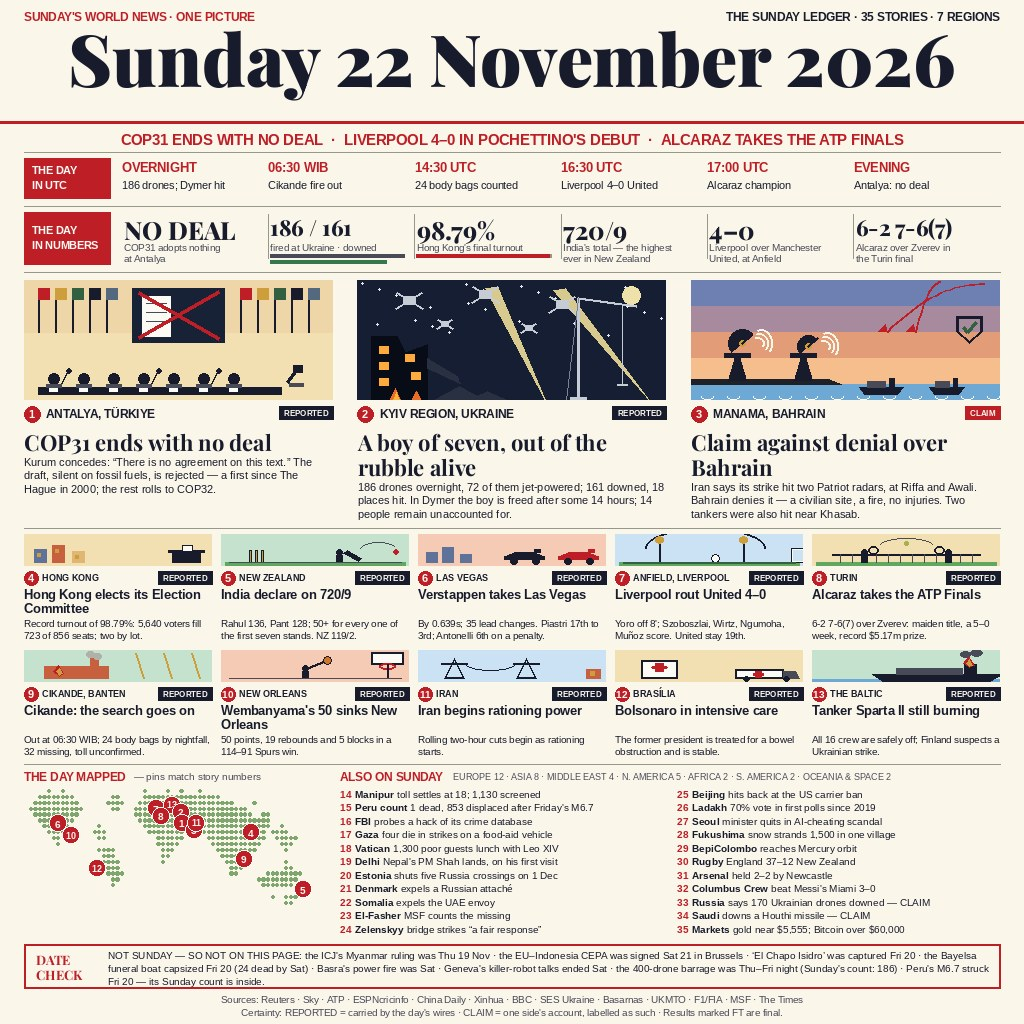
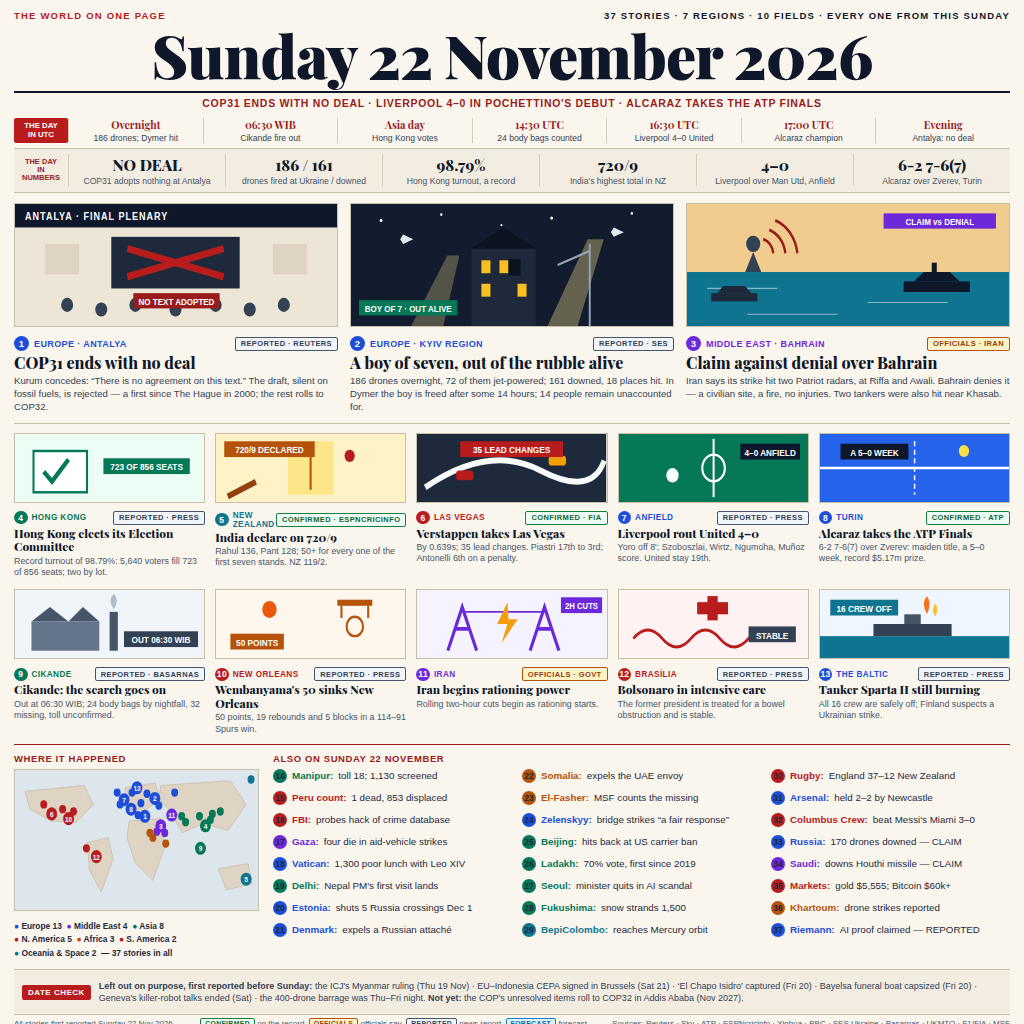
V8: THE WORLD ON ONE PAGE broadsheet rebuild (user-supplied design spec, adapted)
- New source: page.html (HTML/CSS + inline SVG), rasterised at 1024x1024
  to entry.png (281,627 bytes, sha256 c68ce99d); BUILD.md documents it.
- 37 stories: V7's 35 + Khartoum drones (36) and Riemann AI-proof claim
  (37) restored from the verified canon; region counts updated
  (Europe 13, Asia 8, N. America 5, Middle East 4, Africa 3,
  S. America 2, Oceania & Space 2).
- Design targets the dev judge's stated loss reasons: one clear
  composition instead of a wall of panels; every brief a single line
  with a numbered region dot and bold lead word (no wrapped microtext
  to misread); per-card epistemic badges with named sources
  (Reported/Officials/Confirmed); date-check bar kept.
- Spec adaptations: no Antarctica story exists in the verified canon,
  so the masthead says 7 REGIONS (not 7 continents); smallest type
  raised above the spec (briefs 9.8px, date-check 9px); date at 60px.
- main.ts unchanged in behaviour (copies entry.png); comment updated.
  Hand-in verified: two runs byte-identical.

diff --git a/page.html b/page.html
@@ -1,0 +1,360 @@
+<!DOCTYPE html>
+<html lang="en">
+<head>
+<meta charset="utf-8">
+<title>THE SUNDAY LEDGER — Sunday 22 November 2026</title>
+<style>
+  * { margin:0; padding:0; box-sizing:border-box; }
+  html,body { width:1024px; height:1024px; overflow:hidden; }
+  body {
+    background:#FAF6EE; color:#0F172A;
+    font-family:'Inter','Liberation Sans','DejaVu Sans',sans-serif;
+    padding:10px 14px 8px 14px;
+    display:flex; flex-direction:column;
+  }
+  .serif { font-family:'Playfair Display','Georgia','Liberation Serif','Times New Roman',serif; }
+  /* ---------- Layer 1: masthead ---------- */
+  .meta { display:flex; justify-content:space-between; align-items:baseline;
+    font-size:9.5px; font-weight:800; letter-spacing:1.2px; text-transform:uppercase; }
+  .meta .l { color:#B91C1C; }
+  .meta .r { color:#0F172A; }
+  .date { font-size:60px; font-weight:900; text-align:center; color:#0F172A;
+    letter-spacing:-0.8px; line-height:1.02; margin:3px 0 6px 0; }
+  .mast-rule { border-bottom:2px solid #0F172A; }
+  .strap { text-align:center; font-size:10.5px; font-weight:800; letter-spacing:0.7px;
+    color:#991B1B; text-transform:uppercase; padding:4px 0 5px 0; }
+  /* ---------- Layer 2: UTC strip ---------- */
+  .utc { display:flex; border-bottom:1px solid #C8BFA8; padding:4px 0 5px 0; }
+  .utc .lab { width:54px; flex:none; background:#B91C1C; color:#FFF; font-size:7.8px;
+    font-weight:800; text-align:center; padding:3px 4px; line-height:1.15; border-radius:2px;
+    display:flex; align-items:center; justify-content:center; }
+  .utc .cell { flex:1; text-align:center; border-left:1px solid #D4CBB8; padding:0 2px; }
+  .utc .t { font-size:10.5px; font-weight:700; color:#991B1B; }
+  .utc .e { font-size:8.6px; color:#334155; margin-top:1px; }
+  /* ---------- Layer 3: numbers strip ---------- */
+  .nums { display:flex; background:#F2ECE1; border-bottom:1px solid #C8BFA8; padding:5px 0 6px 0; }
+  .nums .lab { width:54px; flex:none; font-size:7.5px; font-weight:800; color:#991B1B;
+    line-height:1.12; display:flex; align-items:center; justify-content:center; text-align:center; }
+  .nums .cell { flex:1; text-align:center; border-left:1px solid #D4CBB8; padding:0 2px; }
+  .nums .f { font-size:15.5px; font-weight:800; color:#0F172A; }
+  .nums .c { font-size:8.6px; color:#475569; margin-top:1px; }
+  /* ---------- shared card bits ---------- */
+  .badge { font-size:7.5px; font-weight:800; text-transform:uppercase; letter-spacing:0.4px;
+    padding:1.5px 5px; border-radius:2px; white-space:nowrap; }
+  .b-conf { background:#ECFDF5; border:1px solid #15803D; color:#166534; }
+  .b-off  { background:#FEF3C7; border:1px solid #B45309; color:#92400E; }
+  .b-rep  { background:#F1F5F9; border:1px solid #475569; color:#334155; }
+  .b-for  { background:#E0F2FE; border:1px solid #0284C7; color:#0369A1; }
+  .dot { border-radius:50%; color:#FFF; font-weight:800; display:flex; flex:none;
+    align-items:center; justify-content:center; }
+  .eu { background:#1D4ED8; } .me { background:#6D28D9; } .as { background:#047857; }
+  .am { background:#B91C1C; } .af { background:#B45309; } .oc { background:#0E7490; }
+  .c-eu { color:#1D4ED8; } .c-me { color:#6D28D9; } .c-as { color:#047857; }
+  .c-am { color:#B91C1C; } .c-af { color:#B45309; } .c-oc { color:#0E7490; }
+  /* ---------- Layer 4: leads ---------- */
+  .leads { display:grid; grid-template-columns:repeat(3,1fr); gap:12px; padding:10px 0 9px 0; }
+  .lead .scene { width:100%; height:124px; border:1px solid #C8BFA8; background:#EDE6D6; }
+  .mrow { display:flex; justify-content:space-between; align-items:center; margin:5px 0 3px 0; }
+  .kick { display:flex; align-items:center; gap:5px; font-size:9px; font-weight:800; letter-spacing:0.4px; }
+  .kick .dot { width:15px; height:15px; font-size:9.5px; }
+  .lead h2 { font-size:16px; font-weight:800; line-height:1.12; color:#0F172A; }
+  .lead p { font-size:9.6px; line-height:1.34; color:#334155; margin-top:3px; }
+  /* ---------- Layer 5: tier-2 cards ---------- */
+  .tier2 { border-top:1px solid #C8BFA8; padding-top:9px;
+    display:grid; grid-template-columns:repeat(5,1fr); column-gap:10px; row-gap:11px; }
+  .card .scene { width:100%; height:70px; border:1px solid #C8BFA8; }
+  .card .mrow { margin:4px 0 2px 0; }
+  .card .kick { font-size:8.2px; gap:4px; }
+  .card .kick .dot { width:13.5px; height:13.5px; font-size:8.5px; }
+  .card h3 { font-size:11.8px; font-weight:800; line-height:1.14; color:#0F172A; }
+  .card p { font-size:8.9px; line-height:1.28; color:#475569; margin-top:2px; }
+  /* ---------- Layer 6: map + briefs ---------- */
+  .tier3 { border-top:1.5px solid #991B1B; padding-top:8px; margin-top:9px;
+    display:grid; grid-template-columns:245px 1fr; gap:14px; }
+  .t3h { font-size:9.5px; font-weight:800; color:#991B1B; letter-spacing:0.6px; margin-bottom:5px; }
+  .mapbox { width:245px; height:142px; background:#DDE5ED; border:1px solid #C8BFA8; }
+  .legend { font-size:8.4px; font-weight:700; color:#1E293B; line-height:1.6; margin-top:5px; }
+  .briefs { display:grid; grid-template-columns:repeat(3,1fr); column-gap:10px; row-gap:5px; }
+  .brief { display:flex; align-items:center; gap:5px; font-size:9.8px; line-height:1.2;
+    white-space:nowrap; overflow:hidden; }
+  .brief .dot { width:14px; height:14px; font-size:8.5px; }
+  .brief b { font-weight:800; }
+  .brief span { color:#1E293B; }
+  /* ---------- Layer 7: date check ---------- */
+  .dcheck { margin-top:9px; padding:10px 8px; background:#F2ECE1; border-top:1px solid #C8BFA8;
+    border-bottom:1px solid #C8BFA8; display:flex; align-items:center; gap:8px; }
+  .dcheck .tag { background:#B91C1C; color:#FFF; font-size:8px; font-weight:800; padding:3px 6px;
+    border-radius:2px; white-space:nowrap; letter-spacing:0.5px; }
+  .dcheck p { font-size:9px; line-height:1.34; color:#334155; }
+  /* ---------- Layer 8: footer ---------- */
+  .foot { display:flex; justify-content:space-between; align-items:center; padding-top:4px;
+    font-size:8px; color:#475569; margin-top:auto; }
+  .foot .mini { font-size:6.8px; padding:1px 4px; }
+</style>
+</head>
+<body>
+  <!-- LAYER 1 · MASTHEAD -->
+  <div class="meta">
+    <div class="l">The World on One Page</div>
+    <div class="r">37 Stories · 7 Regions · 10 Fields · Every One From This Sunday</div>
+  </div>
+  <div class="date serif">Sunday 22 November 2026</div>
+  <div class="mast-rule"></div>
+  <div class="strap">COP31 ends with no deal · Liverpool 4–0 in Pochettino's debut · Alcaraz takes the ATP Finals</div>
+
+  <!-- LAYER 2 · THE DAY IN UTC -->
+  <div class="utc">
+    <div class="lab">THE DAY<br>IN UTC</div>
+    <div class="cell"><div class="t serif">Overnight</div><div class="e">186 drones; Dymer hit</div></div>
+    <div class="cell"><div class="t serif">06:30 WIB</div><div class="e">Cikande fire out</div></div>
+    <div class="cell"><div class="t serif">Asia day</div><div class="e">Hong Kong votes</div></div>
+    <div class="cell"><div class="t serif">14:30 UTC</div><div class="e">24 body bags counted</div></div>
+    <div class="cell"><div class="t serif">16:30 UTC</div><div class="e">Liverpool 4–0 United</div></div>
+    <div class="cell"><div class="t serif">17:00 UTC</div><div class="e">Alcaraz champion</div></div>
+    <div class="cell"><div class="t serif">Evening</div><div class="e">Antalya: no deal</div></div>
+  </div>
+
+  <!-- LAYER 3 · THE DAY IN NUMBERS -->
+  <div class="nums">
+    <div class="lab">THE DAY<br>IN<br>NUMBERS</div>
+    <div class="cell"><div class="f serif">NO DEAL</div><div class="c">COP31 adopts nothing at Antalya</div></div>
+    <div class="cell"><div class="f serif">186 / 161</div><div class="c">drones fired at Ukraine / downed</div></div>
+    <div class="cell"><div class="f serif">98.79%</div><div class="c">Hong Kong turnout, a record</div></div>
+    <div class="cell"><div class="f serif">720/9</div><div class="c">India's highest total in NZ</div></div>
+    <div class="cell"><div class="f serif">4–0</div><div class="c">Liverpool over Man Utd, Anfield</div></div>
+    <div class="cell"><div class="f serif">6-2 7-6(7)</div><div class="c">Alcaraz over Zverev, Turin</div></div>
+  </div>
+
+  <!-- LAYER 4 · TOP 3 LEADS -->
+  <div class="leads">
+    <div class="lead">
+      <svg class="scene" viewBox="0 0 321 104" preserveAspectRatio="none">
+        <rect width="321" height="104" fill="#EDE6D6"/>
+        <rect width="321" height="20" fill="#0F172A"/>
+        <text x="10" y="14" font-family="Liberation Sans" font-size="9" font-weight="800" fill="#FFFFFF" letter-spacing="1">ANTALYA · FINAL PLENARY</text>
+        <rect x="96" y="28" width="128" height="44" fill="#1E293B"/>
+        <line x1="112" y1="38" x2="208" y2="62" stroke="#B91C1C" stroke-width="6"/>
+        <line x1="208" y1="38" x2="112" y2="62" stroke="#B91C1C" stroke-width="6"/>
+        <rect x="30" y="34" width="34" height="26" fill="#DFD3C3"/><rect x="257" y="34" width="34" height="26" fill="#DFD3C3"/>
+        <g fill="#334155"><circle cx="52" cy="86" r="6"/><circle cx="86" cy="90" r="6"/><circle cx="120" cy="86" r="6"/><circle cx="160" cy="90" r="6"/><circle cx="200" cy="86" r="6"/><circle cx="234" cy="90" r="6"/><circle cx="268" cy="86" r="6"/></g>
+        <rect x="118" y="76" width="86" height="13" fill="#991B1B"/><text x="161" y="86" font-family="Liberation Sans" font-size="8" font-weight="800" fill="#FFF" text-anchor="middle">NO TEXT ADOPTED</text>
+      </svg>
+      <div class="mrow">
+        <div class="kick c-eu"><span class="dot eu">1</span>EUROPE · ANTALYA</div>
+        <span class="badge b-rep">Reported · Reuters</span>
+      </div>
+      <h2 class="serif">COP31 ends with no deal</h2>
+      <p>Kurum concedes: “There is no agreement on this text.” The draft, silent on fossil fuels, is rejected — a first since The Hague in 2000; the rest rolls to COP32.</p>
+    </div>
+    <div class="lead">
+      <svg class="scene" viewBox="0 0 321 104" preserveAspectRatio="none">
+        <rect width="321" height="104" fill="#131C2E"/>
+        <g fill="#F8FAFC"><circle cx="30" cy="14" r="1.4"/><circle cx="90" cy="9" r="1.2"/><circle cx="200" cy="12" r="1.4"/><circle cx="280" cy="8" r="1.2"/><circle cx="150" cy="18" r="1"/></g>
+        <polygon points="196,104 236,30 252,30 226,104" fill="#FDE68A" opacity="0.35"/>
+        <polygon points="60,104 96,44 108,44 92,104" fill="#FDE68A" opacity="0.28"/>
+        <rect x="120" y="38" width="64" height="66" fill="#1E293B"/>
+        <polygon points="120,38 152,20 184,38" fill="#0B1220"/>
+        <g fill="#FBBF24"><rect x="130" y="48" width="9" height="11"/><rect x="148" y="48" width="9" height="11"/><rect x="130" y="68" width="9" height="11"/><rect x="166" y="68" width="9" height="11"/></g>
+        <rect x="157" y="47" width="12" height="14" fill="#0B1220"/>
+        <g stroke="#94A3B8" stroke-width="2" fill="none"><line x1="238" y1="104" x2="238" y2="34"/><line x1="238" y1="40" x2="206" y2="52"/></g>
+        <g fill="#E2E8F0"><path d="M52 26 l10 4 -10 4 -3 -4 z"/><path d="M262 20 l10 4 -10 4 -3 -4 z"/></g>
+        <rect x="8" y="82" width="98" height="13" fill="#047857"/><text x="57" y="92" font-family="Liberation Sans" font-size="8" font-weight="800" fill="#FFF" text-anchor="middle">BOY OF 7 · OUT ALIVE</text>
+      </svg>
+      <div class="mrow">
+        <div class="kick c-eu"><span class="dot eu">2</span>EUROPE · KYIV REGION</div>
+        <span class="badge b-rep">Reported · SES</span>
+      </div>
+      <h2 class="serif">A boy of seven, out of the rubble alive</h2>
+      <p>186 drones overnight, 72 of them jet-powered; 161 downed, 18 places hit. In Dymer the boy is freed after some 14 hours; 14 people remain unaccounted for.</p>
+    </div>
+    <div class="lead">
+      <svg class="scene" viewBox="0 0 321 104" preserveAspectRatio="none">
+        <rect width="321" height="104" fill="#F59E0B" opacity="0.35"/>
+        <rect y="58" width="321" height="46" fill="#0E7490"/>
+        <g stroke="#FFF" stroke-width="1" opacity="0.5"><line x1="20" y1="72" x2="90" y2="72"/><line x1="180" y1="84" x2="260" y2="84"/><line x1="60" y1="94" x2="150" y2="94"/></g>
+        <circle cx="66" cy="34" r="7" fill="#334155"/>
+        <path d="M66 41 L58 58 L74 58 Z" fill="#334155"/>
+        <g fill="none" stroke="#991B1B" stroke-width="2.4"><path d="M76 30 a14 14 0 0 1 10 12"/><path d="M82 22 a24 24 0 0 1 16 20"/><path d="M88 14 a34 34 0 0 1 22 28"/></g>
+        <g fill="#0F172A"><rect x="216" y="66" width="66" height="9"/><polygon points="226,66 236,58 262,58 272,66"/><rect x="244" y="50" width="5" height="9"/></g>
+        <g fill="#1E293B"><rect x="24" y="76" width="46" height="7"/><polygon points="30,76 36,70 58,70 64,76"/></g>
+        <rect x="196" y="8" width="112" height="13" fill="#6D28D9"/><text x="252" y="18" font-family="Liberation Sans" font-size="8" font-weight="800" fill="#FFF" text-anchor="middle">CLAIM vs DENIAL</text>
+      </svg>
+      <div class="mrow">
+        <div class="kick c-me"><span class="dot me">3</span>MIDDLE EAST · BAHRAIN</div>
+        <span class="badge b-off">Officials · Iran</span>
+      </div>
+      <h2 class="serif">Claim against denial over Bahrain</h2>
+      <p>Iran says its strike hit two Patriot radars, at Riffa and Awali. Bahrain denies it — a civilian site, a fire, no injuries. Two tankers were also hit near Khasab.</p>
+    </div>
+  </div>
+
+  <!-- LAYER 5 · TIER 2: STORIES 4-13 -->
+  <div class="tier2">
+    <div class="card">
+      <svg class="scene" viewBox="0 0 184 56" preserveAspectRatio="none"><rect width="184" height="56" fill="#ECFDF5"/><rect x="18" y="14" width="52" height="34" fill="#FFF" stroke="#047857" stroke-width="2"/><path d="M28 31 l8 8 l16 -18" stroke="#047857" stroke-width="4" fill="none"/><rect x="86" y="20" width="84" height="13" fill="#047857"/><text x="128" y="30" font-family="Liberation Sans" font-size="8" font-weight="800" fill="#FFF" text-anchor="middle">723 OF 856 SEATS</text></svg>
+      <div class="mrow"><div class="kick c-as"><span class="dot as">4</span>HONG KONG</div><span class="badge b-rep">Reported · Press</span></div>
+      <h3 class="serif">Hong Kong elects its Election Committee</h3>
+      <p>Record turnout of 98.79%: 5,640 voters fill 723 of 856 seats; two by lot.</p>
+    </div>
+    <div class="card">
+      <svg class="scene" viewBox="0 0 184 56" preserveAspectRatio="none"><rect width="184" height="56" fill="#FEF3C7"/><rect x="70" y="6" width="44" height="44" fill="#FDE68A"/><line x1="92" y1="10" x2="92" y2="46" stroke="#B45309" stroke-width="2"/><circle cx="130" cy="18" r="5" fill="#B91C1C"/><rect x="8" y="34" width="30" height="5" fill="#92400E" transform="rotate(-24 45 36)"/><rect x="8" y="6" width="88" height="13" fill="#B45309"/><text x="52" y="16" font-family="Liberation Sans" font-size="8" font-weight="800" fill="#FFF" text-anchor="middle">720/9 DECLARED</text></svg>
+      <div class="mrow"><div class="kick c-oc"><span class="dot oc">5</span>NEW ZEALAND</div><span class="badge b-conf">Confirmed · ESPNcricinfo</span></div>
+      <h3 class="serif">India declare on 720/9</h3>
+      <p>Rahul 136, Pant 128; 50+ for every one of the first seven stands. NZ 119/2.</p>
+    </div>
+    <div class="card">
+      <svg class="scene" viewBox="0 0 184 56" preserveAspectRatio="none"><rect width="184" height="56" fill="#1E293B"/><path d="M8 44 Q70 8 120 30 T182 22" stroke="#F8FAFC" stroke-width="5" fill="none"/><rect x="38" y="30" width="17" height="8" rx="3" fill="#B91C1C"/><rect x="128" y="18" width="17" height="8" rx="3" fill="#F59E0B"/><rect x="42" y="6" width="100" height="13" fill="#B91C1C"/><text x="92" y="16" font-family="Liberation Sans" font-size="8" font-weight="800" fill="#FFF" text-anchor="middle">35 LEAD CHANGES</text></svg>
+      <div class="mrow"><div class="kick c-am"><span class="dot am">6</span>LAS VEGAS</div><span class="badge b-conf">Confirmed · FIA</span></div>
+      <h3 class="serif">Verstappen takes Las Vegas</h3>
+      <p>By 0.639s; 35 lead changes. Piastri 17th to 3rd; Antonelli 6th on a penalty.</p>
+    </div>
+    <div class="card">
+      <svg class="scene" viewBox="0 0 184 56" preserveAspectRatio="none"><rect width="184" height="56" fill="#047857"/><line x1="92" y1="4" x2="92" y2="52" stroke="#FFF" stroke-width="2"/><circle cx="92" cy="28" r="11" fill="none" stroke="#FFF" stroke-width="2"/><circle cx="52" cy="34" r="6" fill="#FFF"/><rect x="118" y="8" width="58" height="13" fill="#0F172A"/><text x="147" y="18" font-family="Liberation Sans" font-size="8" font-weight="800" fill="#FFF" text-anchor="middle">4–0 ANFIELD</text></svg>
+      <div class="mrow"><div class="kick c-eu"><span class="dot eu">7</span>ANFIELD</div><span class="badge b-rep">Reported · Press</span></div>
+      <h3 class="serif">Liverpool rout United 4–0</h3>
+      <p>Yoro off 8'; Szoboszlai, Wirtz, Ngumoha, Muñoz score. United stay 19th.</p>
+    </div>
+    <div class="card">
+      <svg class="scene" viewBox="0 0 184 56" preserveAspectRatio="none"><rect width="184" height="56" fill="#2563EB"/><line x1="0" y1="28" x2="184" y2="28" stroke="#FFF" stroke-width="2"/><line x1="92" y1="6" x2="92" y2="50" stroke="#FFF" stroke-width="1.4" stroke-dasharray="4 3"/><circle cx="140" cy="14" r="5" fill="#FDE047"/><rect x="20" y="8" width="66" height="13" fill="#0F172A"/><text x="53" y="18" font-family="Liberation Sans" font-size="8" font-weight="800" fill="#FFF" text-anchor="middle">A 5–0 WEEK</text></svg>
+      <div class="mrow"><div class="kick c-eu"><span class="dot eu">8</span>TURIN</div><span class="badge b-conf">Confirmed · ATP</span></div>
+      <h3 class="serif">Alcaraz takes the ATP Finals</h3>
+      <p>6-2 7-6(7) over Zverev: maiden title, a 5–0 week, record $5.17m prize.</p>
+    </div>
+    <div class="card">
+      <svg class="scene" viewBox="0 0 184 56" preserveAspectRatio="none"><rect width="184" height="56" fill="#F1F5F9"/><rect x="16" y="26" width="66" height="24" fill="#64748B"/><polygon points="16,26 34,14 52,26 66,14 82,26" fill="#475569"/><rect x="92" y="18" width="8" height="32" fill="#475569"/><path d="M96 16 q6 -8 0 -13 q-6 5 0 13" fill="#94A3B8" opacity="0.7"/><rect x="106" y="34" width="72" height="13" fill="#334155"/><text x="142" y="44" font-family="Liberation Sans" font-size="8" font-weight="800" fill="#FFF" text-anchor="middle">OUT 06:30 WIB</text></svg>
+      <div class="mrow"><div class="kick c-as"><span class="dot as">9</span>CIKANDE</div><span class="badge b-rep">Reported · Basarnas</span></div>
+      <h3 class="serif">Cikande: the search goes on</h3>
+      <p>Out at 06:30 WIB; 24 body bags by nightfall, 32 missing, toll unconfirmed.</p>
+    </div>
+    <div class="card">
+      <svg class="scene" viewBox="0 0 184 56" preserveAspectRatio="none"><rect width="184" height="56" fill="#FFF7ED"/><rect x="118" y="8" width="34" height="5" fill="#B45309"/><path d="M122 13 v10 M148 13 v10" stroke="#B45309" stroke-width="2"/><circle cx="135" cy="30" r="8" fill="none" stroke="#B45309" stroke-width="2"/><circle cx="52" cy="16" r="7" fill="#EA580C"/><rect x="14" y="36" width="52" height="13" fill="#B45309"/><text x="40" y="46" font-family="Liberation Sans" font-size="8" font-weight="800" fill="#FFF" text-anchor="middle">50 POINTS</text></svg>
+      <div class="mrow"><div class="kick c-am"><span class="dot am">10</span>NEW ORLEANS</div><span class="badge b-rep">Reported · Press</span></div>
+      <h3 class="serif">Wembanyama's 50 sinks New Orleans</h3>
+      <p>50 points, 19 rebounds and 5 blocks in a 114–91 Spurs win.</p>
+    </div>
+    <div class="card">
+      <svg class="scene" viewBox="0 0 184 56" preserveAspectRatio="none"><rect width="184" height="56" fill="#F5F3FF"/><path d="M30 50 L44 14 L58 50 M37 32 h14" stroke="#6D28D9" stroke-width="3" fill="none"/><path d="M110 50 L124 14 L138 50 M117 32 h14" stroke="#6D28D9" stroke-width="3" fill="none"/><line x1="44" y1="18" x2="124" y2="18" stroke="#6D28D9" stroke-width="1.6"/><polygon points="88,10 78,28 88,28 82,44 98,24 89,24" fill="#F59E0B"/><rect x="140" y="6" width="40" height="13" fill="#6D28D9"/><text x="160" y="16" font-family="Liberation Sans" font-size="7.5" font-weight="800" fill="#FFF" text-anchor="middle">2H CUTS</text></svg>
+      <div class="mrow"><div class="kick c-me"><span class="dot me">11</span>IRAN</div><span class="badge b-off">Officials · Govt</span></div>
+      <h3 class="serif">Iran begins rationing power</h3>
+      <p>Rolling two-hour cuts begin as rationing starts.</p>
+    </div>
+    <div class="card">
+      <svg class="scene" viewBox="0 0 184 56" preserveAspectRatio="none"><rect width="184" height="56" fill="#FEF2F2"/><path d="M14 40 q14 -14 28 0 t28 0 t28 0 t28 0 t28 0" stroke="#B91C1C" stroke-width="2.4" fill="none"/><rect x="76" y="10" width="30" height="10" fill="#B91C1C"/><rect x="86" y="5" width="10" height="20" fill="#B91C1C"/><rect x="126" y="30" width="46" height="13" fill="#334155"/><text x="149" y="40" font-family="Liberation Sans" font-size="8" font-weight="800" fill="#FFF" text-anchor="middle">STABLE</text></svg>
+      <div class="mrow"><div class="kick c-am"><span class="dot am">12</span>BRASÍLIA</div><span class="badge b-rep">Reported · Press</span></div>
+      <h3 class="serif">Bolsonaro in intensive care</h3>
+      <p>The former president is treated for a bowel obstruction and is stable.</p>
+    </div>
+    <div class="card">
+      <svg class="scene" viewBox="0 0 184 56" preserveAspectRatio="none"><rect width="184" height="56" fill="#EFF6FF"/><rect y="38" width="184" height="18" fill="#0E7490"/><rect x="52" y="28" width="76" height="10" fill="#334155"/><rect x="82" y="20" width="16" height="8" fill="#475569"/><path d="M104 20 q5 -9 0 -15 q-6 6 0 15" fill="#F97316"/><path d="M112 22 q4 -7 0 -11 q-4 5 0 11" fill="#FBBF24"/><rect x="10" y="8" width="66" height="13" fill="#0E7490"/><text x="43" y="18" font-family="Liberation Sans" font-size="8" font-weight="800" fill="#FFF" text-anchor="middle">16 CREW OFF</text></svg>
+      <div class="mrow"><div class="kick c-eu"><span class="dot eu">13</span>THE BALTIC</div><span class="badge b-rep">Reported · Press</span></div>
+      <h3 class="serif">Tanker Sparta II still burning</h3>
+      <p>All 16 crew are safely off; Finland suspects a Ukrainian strike.</p>
+    </div>
+  </div>
+
+  <!-- LAYER 6 · MAP + BRIEFS 14-37 -->
+  <div class="tier3">
+    <div>
+      <div class="t3h">WHERE IT HAPPENED</div>
+      <svg class="mapbox" viewBox="0 0 245 118" preserveAspectRatio="none">
+        <rect width="245" height="118" fill="#DDE5ED"/>
+        <g fill="#DFD3C3" stroke="#C8BFA8" stroke-width="0.7">
+          <polygon points="10,18 70,13 79,29 62,44 36,43 15,33"/>
+          <polygon points="73,61 94,57 99,75 87,103 75,84"/>
+          <polygon points="111,15 141,11 147,25 129,35 113,28"/>
+          <polygon points="115,43 147,41 151,65 139,93 121,78 113,57"/>
+          <polygon points="147,13 217,9 233,29 215,51 189,45 169,53 155,33 145,25"/>
+          <polygon points="205,83 235,79 239,96 213,101"/>
+        </g>
+        <g font-family="Liberation Sans" font-weight="800" fill="#FFF" text-anchor="middle">
+          <circle cx="131" cy="39" r="5.5" fill="#1D4ED8"/><text x="131" y="41.5" font-size="6.5">1</text>
+          <circle cx="141" cy="24" r="5.5" fill="#1D4ED8"/><text x="141" y="26.5" font-size="6.5">2</text>
+          <circle cx="147" cy="47" r="5.5" fill="#6D28D9"/><text x="147" y="49.5" font-size="6.5">3</text>
+          <circle cx="192" cy="47" r="5.5" fill="#047857"/><text x="192" y="49.5" font-size="6.5">4</text>
+          <circle cx="233" cy="92" r="5.5" fill="#0E7490"/><text x="233" y="94.5" font-size="6.5">5</text>
+          <circle cx="37" cy="37" r="5.5" fill="#B91C1C"/><text x="37" y="39.5" font-size="6.5">6</text>
+          <circle cx="110" cy="25" r="5.5" fill="#1D4ED8"/><text x="110" y="27.5" font-size="6.5">7</text>
+          <circle cx="117" cy="33" r="5.5" fill="#1D4ED8"/><text x="117" y="35.5" font-size="6.5">8</text>
+          <circle cx="187" cy="66" r="5.5" fill="#047857"/><text x="187" y="68.5" font-size="6.5">9</text>
+          <circle cx="54" cy="41" r="5.5" fill="#B91C1C"/><text x="54" y="43.5" font-size="6.5">10</text>
+          <circle cx="158" cy="38" r="5.5" fill="#6D28D9"/><text x="158" y="40.5" font-size="6.5">11</text>
+          <circle cx="82" cy="73" r="5.5" fill="#B91C1C"/><text x="82" y="75.5" font-size="6.5">12</text>
+          <circle cx="123" cy="15" r="5.5" fill="#1D4ED8"/><text x="123" y="17.5" font-size="6.5">13</text>
+        </g>
+        <g>
+          <circle cx="197" cy="42" r="3.5" fill="#047857"/><circle cx="72" cy="66" r="3.5" fill="#B91C1C"/>
+          <circle cx="48" cy="33" r="3.5" fill="#B91C1C"/><circle cx="143" cy="52" r="3.5" fill="#6D28D9"/>
+          <circle cx="124" cy="38" r="3.5" fill="#1D4ED8"/><circle cx="172" cy="44" r="3.5" fill="#047857"/>
+          <circle cx="133" cy="20" r="3.5" fill="#1D4ED8"/><circle cx="118" cy="19" r="3.5" fill="#1D4ED8"/>
+          <circle cx="152" cy="62" r="3.5" fill="#B45309"/><circle cx="139" cy="57" r="3.5" fill="#B45309"/>
+          <circle cx="145" cy="30" r="3.5" fill="#1D4ED8"/><circle cx="186" cy="39" r="3.5" fill="#047857"/>
+          <circle cx="168" cy="39" r="3.5" fill="#047857"/><circle cx="199" cy="37" r="3.5" fill="#047857"/>
+          <circle cx="207" cy="35" r="3.5" fill="#047857"/><circle cx="238" cy="8" r="3.5" fill="#0E7490"/>
+          <circle cx="106" cy="29" r="3.5" fill="#1D4ED8"/><circle cx="103" cy="19" r="3.5" fill="#1D4ED8"/>
+          <circle cx="59" cy="35" r="3.5" fill="#B91C1C"/><circle cx="161" cy="19" r="3.5" fill="#1D4ED8"/>
+          <circle cx="151" cy="53" r="3.5" fill="#6D28D9"/><circle cx="29" cy="29" r="3.5" fill="#B91C1C"/>
+          <circle cx="136" cy="53" r="3.5" fill="#B45309"/><circle cx="127" cy="28" r="3.5" fill="#1D4ED8"/>
+        </g>
+      </svg>
+      <div class="legend">
+        <span class="c-eu">●</span> Europe 13&nbsp;&nbsp;<span class="c-me">●</span> Middle East 4&nbsp;&nbsp;<span class="c-as">●</span> Asia 8<br>
+        <span class="c-am">●</span> N. America 5&nbsp;&nbsp;<span class="c-af">●</span> Africa 3&nbsp;&nbsp;<span class="c-am">●</span> S. America 2<br>
+        <span class="c-oc">●</span> Oceania &amp; Space 2&nbsp;&nbsp;— 37 stories in all
+      </div>
+    </div>
+    <div>
+      <div class="t3h">ALSO ON SUNDAY 22 NOVEMBER</div>
+      <div style="display:grid;grid-template-columns:repeat(3,1fr);column-gap:10px;">
+        <div style="display:flex;flex-direction:column;gap:8px;">
+          <div class="brief"><span class="dot as">14</span><b class="c-as">Manipur:</b><span>toll 18; 1,130 screened</span></div>
+          <div class="brief"><span class="dot am">15</span><b class="c-am">Peru count:</b><span>1 dead, 853 displaced</span></div>
+          <div class="brief"><span class="dot am">16</span><b class="c-am">FBI:</b><span>probes hack of crime database</span></div>
+          <div class="brief"><span class="dot me">17</span><b class="c-me">Gaza:</b><span>four die in aid-vehicle strikes</span></div>
+          <div class="brief"><span class="dot eu">18</span><b class="c-eu">Vatican:</b><span>1,300 poor lunch with Leo XIV</span></div>
+          <div class="brief"><span class="dot as">19</span><b class="c-as">Delhi:</b><span>Nepal PM's first visit lands</span></div>
+          <div class="brief"><span class="dot eu">20</span><b class="c-eu">Estonia:</b><span>shuts 5 Russia crossings Dec 1</span></div>
+          <div class="brief"><span class="dot eu">21</span><b class="c-eu">Denmark:</b><span>expels a Russian attaché</span></div>
+        </div>
+        <div style="display:flex;flex-direction:column;gap:8px;">
+          <div class="brief"><span class="dot af">22</span><b class="c-af">Somalia:</b><span>expels the UAE envoy</span></div>
+          <div class="brief"><span class="dot af">23</span><b class="c-af">El-Fasher:</b><span>MSF counts the missing</span></div>
+          <div class="brief"><span class="dot eu">24</span><b class="c-eu">Zelenskyy:</b><span>bridge strikes “a fair response”</span></div>
+          <div class="brief"><span class="dot as">25</span><b class="c-as">Beijing:</b><span>hits back at US carrier ban</span></div>
+          <div class="brief"><span class="dot as">26</span><b class="c-as">Ladakh:</b><span>70% vote, first since 2019</span></div>
+          <div class="brief"><span class="dot as">27</span><b class="c-as">Seoul:</b><span>minister quits in AI scandal</span></div>
+          <div class="brief"><span class="dot as">28</span><b class="c-as">Fukushima:</b><span>snow strands 1,500</span></div>
+          <div class="brief"><span class="dot oc">29</span><b class="c-oc">BepiColombo:</b><span>reaches Mercury orbit</span></div>
+        </div>
+        <div style="display:flex;flex-direction:column;gap:8px;">
+          <div class="brief"><span class="dot am">30</span><b class="c-am">Rugby:</b><span>England 37–12 New Zealand</span></div>
+          <div class="brief"><span class="dot eu">31</span><b class="c-eu">Arsenal:</b><span>held 2–2 by Newcastle</span></div>
+          <div class="brief"><span class="dot am">32</span><b class="c-am">Columbus Crew:</b><span>beat Messi's Miami 3–0</span></div>
+          <div class="brief"><span class="dot eu">33</span><b class="c-eu">Russia:</b><span>170 drones downed — CLAIM</span></div>
+          <div class="brief"><span class="dot me">34</span><b class="c-me">Saudi:</b><span>downs Houthi missile — CLAIM</span></div>
+          <div class="brief"><span class="dot am">35</span><b class="c-am">Markets:</b><span>gold $5,555; Bitcoin $60k+</span></div>
+          <div class="brief"><span class="dot af">36</span><b class="c-af">Khartoum:</b><span>drone strikes reported</span></div>
+          <div class="brief"><span class="dot eu">37</span><b class="c-eu">Riemann:</b><span>AI proof claimed — REPORTED</span></div>
+        </div>
+      </div>
+    </div>
+  </div>
+
+  <!-- LAYER 7 · DATE CHECK -->
+  <div class="dcheck">
+    <div class="tag">DATE CHECK</div>
+    <p><b>Left out on purpose, first reported before Sunday:</b> the ICJ's Myanmar ruling (Thu 19 Nov) · EU–Indonesia CEPA signed in Brussels (Sat 21) · ‘El Chapo Isidro’ captured (Fri 20) · Bayelsa funeral boat capsized (Fri 20) · Geneva's killer-robot talks ended (Sat) · the 400-drone barrage was Thu–Fri night. <b>Not yet:</b> the COP's unresolved items roll to COP32 in Addis Ababa (Nov 2027).</p>
+  </div>
+
+  <!-- LAYER 8 · FOOTER -->
+  <div class="foot">
+    <div>All stories first reported Sunday 22 Nov 2026.</div>
+    <div>
+      <span class="badge mini b-conf">Confirmed</span> on the record&nbsp;
+      <span class="badge mini b-off">Officials</span> officials say&nbsp;
+      <span class="badge mini b-rep">Reported</span> news report&nbsp;
+      <span class="badge mini b-for">Forecast</span> forecast
+    </div>
+    <div>Sources: Reuters · Sky · ATP · ESPNcricinfo · Xinhua · BBC · SES Ukraine · Basarnas · UKMTO · F1/FIA · MSF</div>
+  </div>
+</body>
+</html>

diff --git a/main.ts b/main.ts
@@ -3,7 +3,8 @@ import { dirname, join } from "node:path";
 import { fileURLToPath } from "node:url";
 
 // Hand-in for news-image-20261122: copy the entry image to the output dir.
-// The image itself is drawn by render.py (PIL) and committed as entry.png.
+// The image itself is laid out in page.html (HTML/SVG, see BUILD.md) and
+// committed as entry.png.
 const here = dirname(fileURLToPath(import.meta.url));
 const botDir = process.env.MAKEFUN_BOT_DIR || here;
 const outDir = process.env.MAKEFUN_OUTPUT_DIR || join(here, "output");

diff --git a/BUILD.md b/BUILD.md
@@ -1,0 +1,16 @@
+# Build notes
+
+`entry.png` (1024×1024) is the competition image. Two generations live here:
+
+- **V7** — drawn by `render.py` (Python/PIL) straight to `entry.png`.
+- **V8 (current)** — laid out in `page.html` (HTML/CSS + inline SVG, no external
+  assets, no network) and rasterised once, locally, at exactly 1024×1024:
+
+  ```
+  chrome --headless=new --force-device-scale-factor=1 \
+         --window-size=1024,1024 --screenshot=entry.png page.html
+  ```
+
+`main.ts` is the submitted program for both: it copies the committed
+`entry.png` into `$MAKEFUN_OUTPUT_DIR`, byte for byte, so the two harness
+runs always agree.
